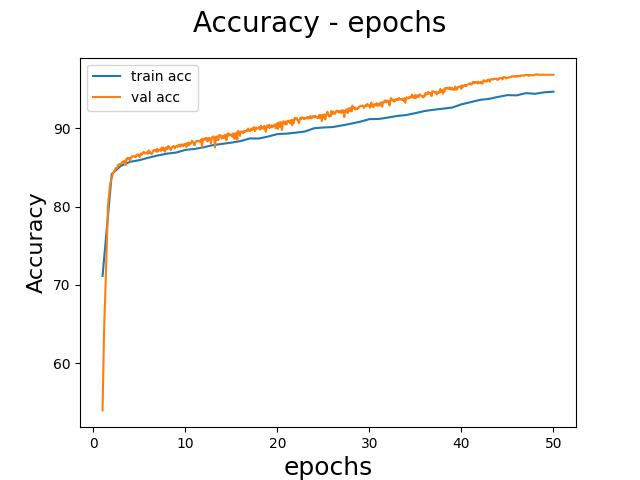
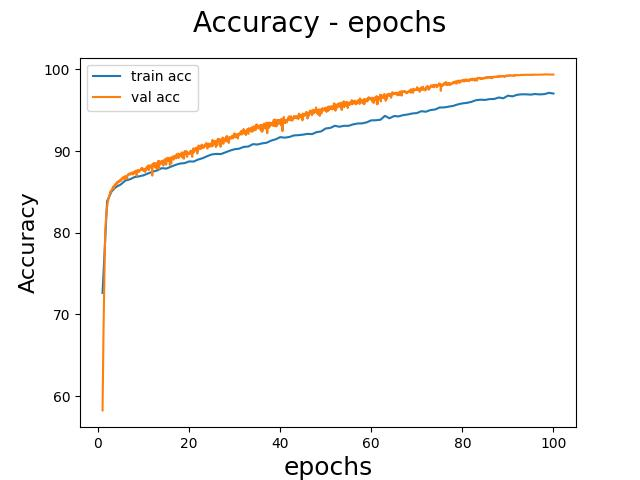
HW2 submission (Acc: 97.05... Val Acc: 99.38)

diff --git a/HW2/main.py b/HW2/main.py
@@ -64,7 +64,7 @@ train_loader = DataLoader(train_data, shuffle=True, batch_size=batch_size)
 valid_loader = DataLoader(valid_data, shuffle=False, batch_size=batch_size)
 
 # Define training params
-epochs = 50
+epochs = 100
 optimizer = torch.optim.SGD(net.parameters(), lr=0.1, momentum=0.9)
 scheduler = torch.optim.lr_scheduler.OneCycleLR(optimizer, max_lr=0.01, steps_per_epoch=len(train_loader), epochs=epochs)
 
@@ -149,7 +149,7 @@ for e in range(epochs):
             train_loss.append(loss.item())
             val_acc_list.append(np.mean(val_acc_list_temp))
     train_acc_list.append(np.mean(train_acc_list_temp))
-
+# Saving figures
 fig = plt.figure()
 plt.plot(np.linspace(1, epochs, len(loss_vals)).astype(float), loss_vals, label="val Loss")
 plt.plot(np.linspace(1, epochs, len(train_loss)).astype(float), train_loss, label="train Loss")
